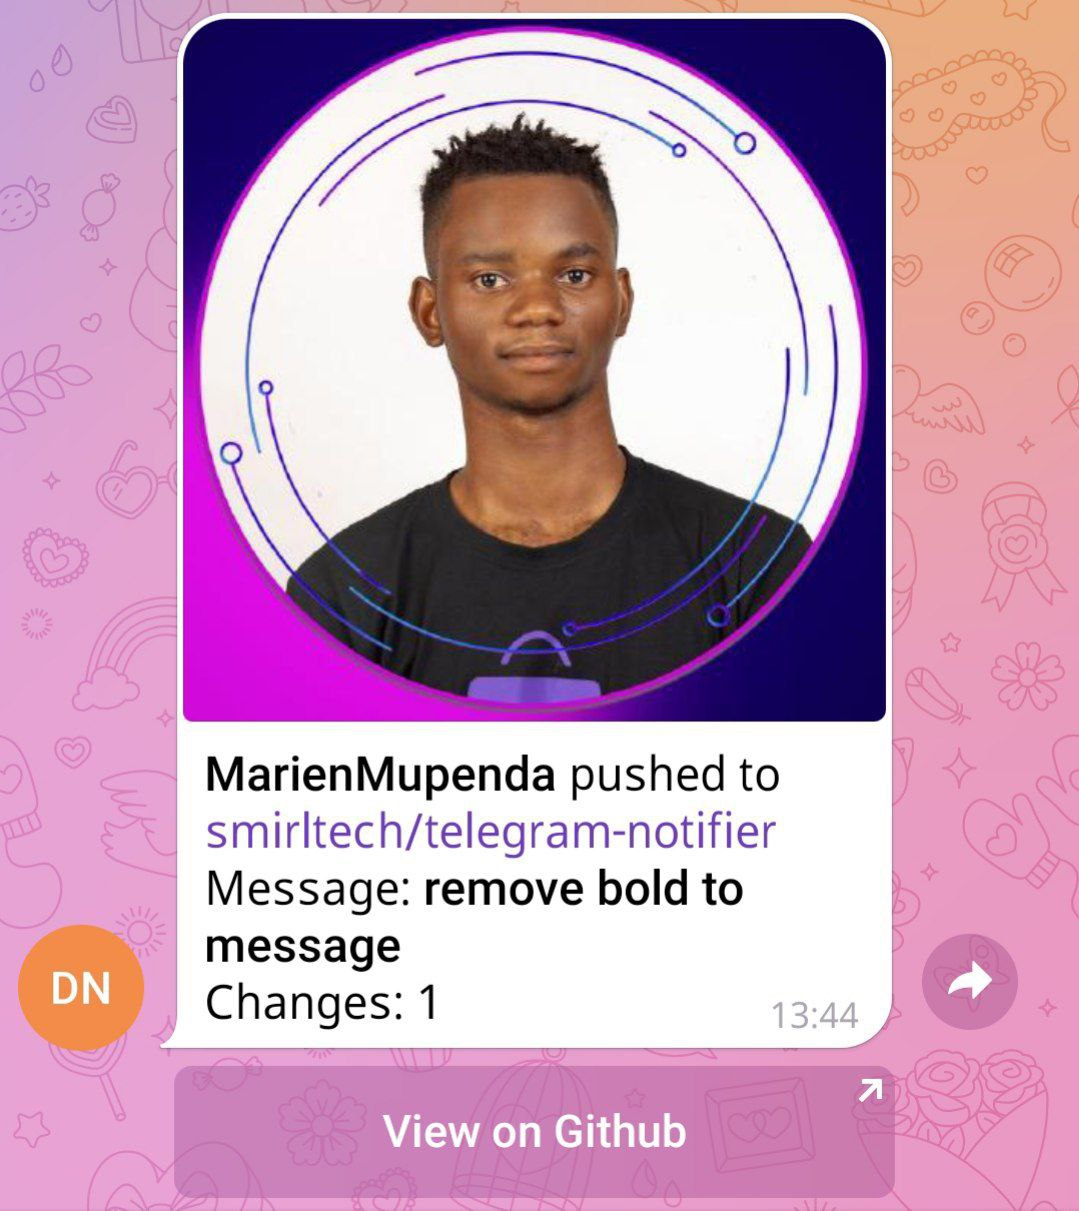
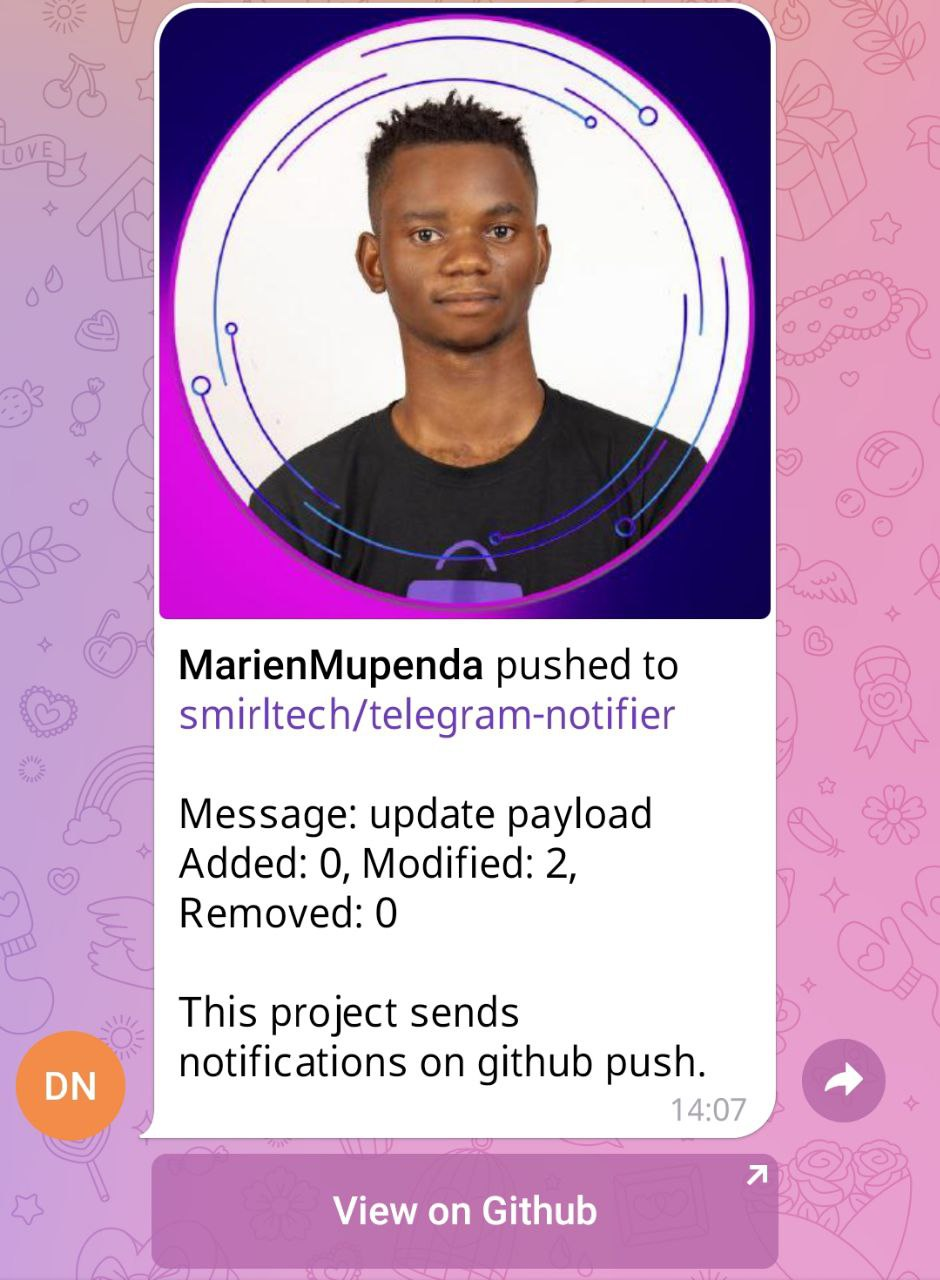
update content and image

diff --git a/app/Data/Payload.php b/app/Data/Payload.php
@@ -40,10 +40,12 @@ class Payload
     {
         // create a message content from attributes using md
         $content = "*$this->sender* pushed to [$this->repository]($this->repositoryUrl)\n";
+        $content .= "\n";
         $content .= "Message: {$this->message} \n";
-        $content .= "Added: " . count($this->added) . "\n";
-        $content .= "Modified: " . count($this->modified) . "\n";
-        $content .= "Removed: " . count($this->removed) . "\n";
+        $content .= "Added: " . count($this->added) . ", ";
+        $content .= "Modified: " . count($this->modified) . ", ";
+        $content .= "Removed: " . count($this->removed) . "\n\n";
+        $content .= "$this->repositoryDescription";
 
         return $content;
     }
